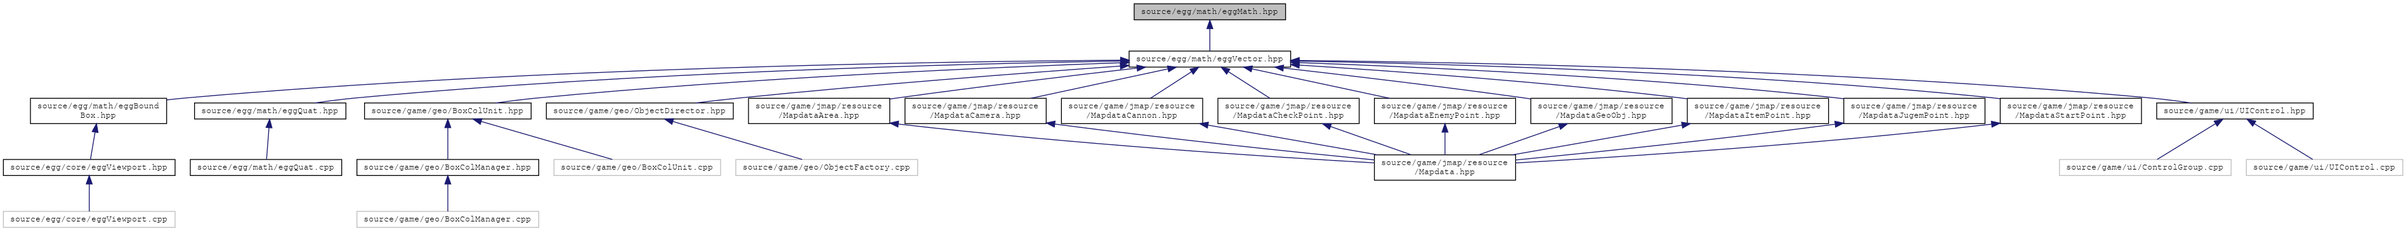
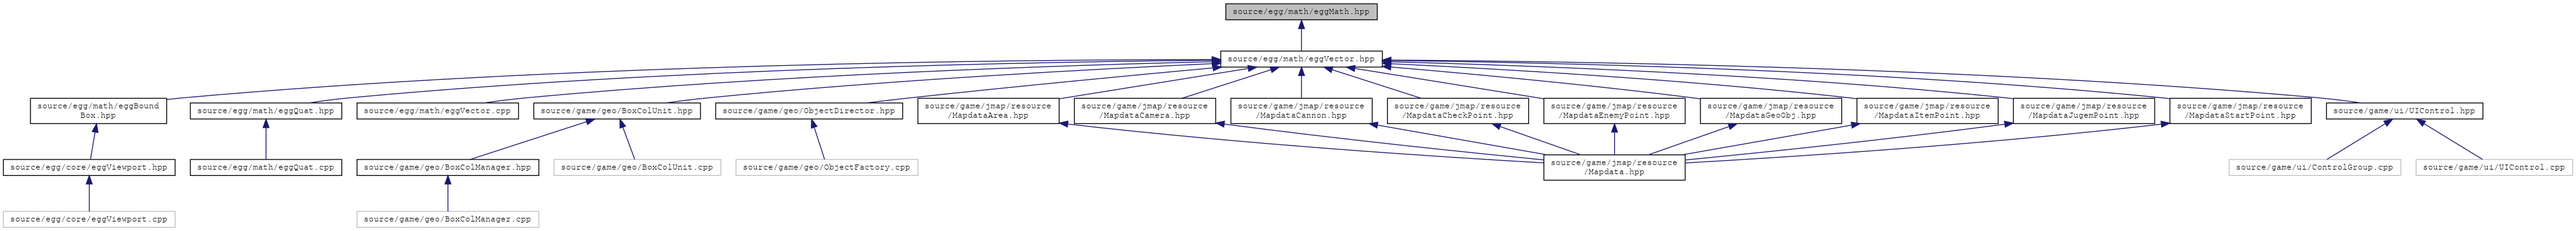
Deploying to gh-pages from @ riidefi/mkw@90979cafa67d8ee8e170cc550328c11c983de0ac 🚀

diff --git a/docs/html/egg_math_8hpp.html b/docs/html/egg_math_8hpp.html
@@ -110,22 +110,23 @@ $(document).ready(function(){initNavTree('egg_math_8hpp.html',''); initResizable
 <div id="dynsection-1-content" class="dyncontent" style="display:none;">
 <div class="center"><img src="egg_math_8hpp__dep__incl.png" border="0" usemap="#asource_2egg_2math_2egg_math_8hppdep" alt=""/></div>
 <map name="asource_2egg_2math_2egg_math_8hppdep" id="asource_2egg_2math_2egg_math_8hppdep">
-<area shape="rect" title="Provides a compile&#45;time generic interface for performing basic math operations on a certain type." alt="" coords="1788,5,2027,32"/>
-<area shape="rect" href="egg_vector_8hpp.html" title="TODO." alt="" coords="1780,80,2035,107"/>
+<area shape="rect" title="Provides a compile&#45;time generic interface for performing basic math operations on a certain type." alt="" coords="1932,5,2171,32"/>
+<area shape="rect" href="egg_vector_8hpp.html" title="TODO." alt="" coords="1924,80,2179,107"/>
 <area shape="rect" href="egg_bound_box_8hpp_source.html" title=" " alt="" coords="48,155,263,196"/>
-<area shape="rect" href="egg_quat_8hpp.html" title="TODO." alt="" coords="307,162,545,189"/>
-<area shape="rect" href="_box_col_unit_8hpp_source.html" title=" " alt="" coords="575,162,837,189"/>
-<area shape="rect" href="_object_director_8hpp.html" title="Manages the objects and related tables!" alt="" coords="861,162,1156,189"/>
-<area shape="rect" href="_mapdata_area_8hpp_source.html" title=" " alt="" coords="1180,155,1403,196"/>
-<area shape="rect" href="_mapdata_camera_8hpp_source.html" title=" " alt="" coords="1427,155,1649,196"/>
-<area shape="rect" href="_mapdata_cannon_8hpp_source.html" title=" " alt="" coords="1673,155,1896,196"/>
-<area shape="rect" href="_mapdata_check_point_8hpp_source.html" title=" " alt="" coords="1920,155,2143,196"/>
-<area shape="rect" href="_mapdata_enemy_point_8hpp_source.html" title=" " alt="" coords="2167,155,2389,196"/>
-<area shape="rect" href="_mapdata_geo_obj_8hpp_source.html" title=" " alt="" coords="2413,155,2636,196"/>
-<area shape="rect" href="_mapdata_item_point_8hpp_source.html" title=" " alt="" coords="2660,155,2883,196"/>
-<area shape="rect" href="_mapdata_jugem_point_8hpp_source.html" title=" " alt="" coords="2907,155,3129,196"/>
-<area shape="rect" href="_mapdata_start_point_8hpp_source.html" title=" " alt="" coords="3153,155,3376,196"/>
-<area shape="rect" href="_u_i_control_8hpp_source.html" title=" " alt="" coords="3400,162,3647,189"/>
+<area shape="rect" href="egg_quat_8hpp.html" title="TODO." alt="" coords="300,162,539,189"/>
+<area shape="rect" href="egg_vector_8cpp.html" title="TODO." alt="" coords="563,162,817,189"/>
+<area shape="rect" href="_box_col_unit_8hpp_source.html" title=" " alt="" coords="841,162,1104,189"/>
+<area shape="rect" href="_object_director_8hpp.html" title="Manages the objects and related tables!" alt="" coords="1128,162,1423,189"/>
+<area shape="rect" href="_mapdata_area_8hpp_source.html" title=" " alt="" coords="1447,155,1669,196"/>
+<area shape="rect" href="_mapdata_camera_8hpp_source.html" title=" " alt="" coords="1693,155,1916,196"/>
+<area shape="rect" href="_mapdata_cannon_8hpp_source.html" title=" " alt="" coords="1940,155,2163,196"/>
+<area shape="rect" href="_mapdata_check_point_8hpp_source.html" title=" " alt="" coords="2187,155,2409,196"/>
+<area shape="rect" href="_mapdata_enemy_point_8hpp_source.html" title=" " alt="" coords="2433,155,2656,196"/>
+<area shape="rect" href="_mapdata_geo_obj_8hpp_source.html" title=" " alt="" coords="2680,155,2903,196"/>
+<area shape="rect" href="_mapdata_item_point_8hpp_source.html" title=" " alt="" coords="2927,155,3149,196"/>
+<area shape="rect" href="_mapdata_jugem_point_8hpp_source.html" title=" " alt="" coords="3173,155,3396,196"/>
+<area shape="rect" href="_mapdata_start_point_8hpp_source.html" title=" " alt="" coords="3420,155,3643,196"/>
+<area shape="rect" href="_u_i_control_8hpp_source.html" title=" " alt="" coords="3667,162,3913,189"/>
 <area shape="rect" href="egg_viewport_8hpp.html" title="TODO." alt="" coords="5,251,276,278"/>
 <area shape="rect" title=" " alt="" coords="5,333,276,360"/>
 <area shape="rect" href="egg_quat_8cpp.html" title="TODO." alt="" coords="300,251,539,278"/>
@@ -133,9 +134,9 @@ $(document).ready(function(){initNavTree('egg_math_8hpp.html',''); initResizable
 <area shape="rect" title=" " alt="" coords="873,251,1136,278"/>
 <area shape="rect" title=" " alt="" coords="563,333,849,360"/>
 <area shape="rect" title=" " alt="" coords="1160,251,1447,278"/>
-<area shape="rect" href="_mapdata_8hpp_source.html" title=" " alt="" coords="2167,244,2389,285"/>
-<area shape="rect" title=" " alt="" coords="3247,251,3517,278"/>
-<area shape="rect" title=" " alt="" coords="3541,251,3788,278"/>
+<area shape="rect" href="_mapdata_8hpp_source.html" title=" " alt="" coords="2433,244,2656,285"/>
+<area shape="rect" title=" " alt="" coords="3513,251,3784,278"/>
+<area shape="rect" title=" " alt="" coords="3808,251,4055,278"/>
 </map>
 </div>
 </div>

diff --git a/docs/html/egg_vector_8hpp.html b/docs/html/egg_vector_8hpp.html
@@ -111,21 +111,22 @@ $(document).ready(function(){initNavTree('egg_vector_8hpp.html',''); initResizab
 <div id="dynsection-1-content" class="dyncontent" style="display:none;">
 <div class="center"><img src="egg_vector_8hpp__dep__incl.png" border="0" usemap="#asource_2egg_2math_2egg_vector_8hppdep" alt=""/></div>
 <map name="asource_2egg_2math_2egg_vector_8hppdep" id="asource_2egg_2math_2egg_vector_8hppdep">
-<area shape="rect" title="TODO." alt="" coords="1780,5,2035,32"/>
+<area shape="rect" title="TODO." alt="" coords="1924,5,2179,32"/>
 <area shape="rect" href="egg_bound_box_8hpp_source.html" title=" " alt="" coords="48,80,263,121"/>
-<area shape="rect" href="egg_quat_8hpp.html" title="TODO." alt="" coords="307,87,545,114"/>
-<area shape="rect" href="_box_col_unit_8hpp_source.html" title=" " alt="" coords="575,87,837,114"/>
-<area shape="rect" href="_object_director_8hpp.html" title="Manages the objects and related tables!" alt="" coords="861,87,1156,114"/>
-<area shape="rect" href="_mapdata_area_8hpp_source.html" title=" " alt="" coords="1180,80,1403,121"/>
-<area shape="rect" href="_mapdata_camera_8hpp_source.html" title=" " alt="" coords="1427,80,1649,121"/>
-<area shape="rect" href="_mapdata_cannon_8hpp_source.html" title=" " alt="" coords="1673,80,1896,121"/>
-<area shape="rect" href="_mapdata_check_point_8hpp_source.html" title=" " alt="" coords="1920,80,2143,121"/>
-<area shape="rect" href="_mapdata_enemy_point_8hpp_source.html" title=" " alt="" coords="2167,80,2389,121"/>
-<area shape="rect" href="_mapdata_geo_obj_8hpp_source.html" title=" " alt="" coords="2413,80,2636,121"/>
-<area shape="rect" href="_mapdata_item_point_8hpp_source.html" title=" " alt="" coords="2660,80,2883,121"/>
-<area shape="rect" href="_mapdata_jugem_point_8hpp_source.html" title=" " alt="" coords="2907,80,3129,121"/>
-<area shape="rect" href="_mapdata_start_point_8hpp_source.html" title=" " alt="" coords="3153,80,3376,121"/>
-<area shape="rect" href="_u_i_control_8hpp_source.html" title=" " alt="" coords="3400,87,3647,114"/>
+<area shape="rect" href="egg_quat_8hpp.html" title="TODO." alt="" coords="300,87,539,114"/>
+<area shape="rect" href="egg_vector_8cpp.html" title="TODO." alt="" coords="563,87,817,114"/>
+<area shape="rect" href="_box_col_unit_8hpp_source.html" title=" " alt="" coords="841,87,1104,114"/>
+<area shape="rect" href="_object_director_8hpp.html" title="Manages the objects and related tables!" alt="" coords="1128,87,1423,114"/>
+<area shape="rect" href="_mapdata_area_8hpp_source.html" title=" " alt="" coords="1447,80,1669,121"/>
+<area shape="rect" href="_mapdata_camera_8hpp_source.html" title=" " alt="" coords="1693,80,1916,121"/>
+<area shape="rect" href="_mapdata_cannon_8hpp_source.html" title=" " alt="" coords="1940,80,2163,121"/>
+<area shape="rect" href="_mapdata_check_point_8hpp_source.html" title=" " alt="" coords="2187,80,2409,121"/>
+<area shape="rect" href="_mapdata_enemy_point_8hpp_source.html" title=" " alt="" coords="2433,80,2656,121"/>
+<area shape="rect" href="_mapdata_geo_obj_8hpp_source.html" title=" " alt="" coords="2680,80,2903,121"/>
+<area shape="rect" href="_mapdata_item_point_8hpp_source.html" title=" " alt="" coords="2927,80,3149,121"/>
+<area shape="rect" href="_mapdata_jugem_point_8hpp_source.html" title=" " alt="" coords="3173,80,3396,121"/>
+<area shape="rect" href="_mapdata_start_point_8hpp_source.html" title=" " alt="" coords="3420,80,3643,121"/>
+<area shape="rect" href="_u_i_control_8hpp_source.html" title=" " alt="" coords="3667,87,3913,114"/>
 <area shape="rect" href="egg_viewport_8hpp.html" title="TODO." alt="" coords="5,177,276,203"/>
 <area shape="rect" title=" " alt="" coords="5,259,276,285"/>
 <area shape="rect" href="egg_quat_8cpp.html" title="TODO." alt="" coords="300,177,539,203"/>
@@ -133,9 +134,9 @@ $(document).ready(function(){initNavTree('egg_vector_8hpp.html',''); initResizab
 <area shape="rect" title=" " alt="" coords="873,177,1136,203"/>
 <area shape="rect" title=" " alt="" coords="563,259,849,285"/>
 <area shape="rect" title=" " alt="" coords="1160,177,1447,203"/>
-<area shape="rect" href="_mapdata_8hpp_source.html" title=" " alt="" coords="2167,169,2389,211"/>
-<area shape="rect" title=" " alt="" coords="3247,177,3517,203"/>
-<area shape="rect" title=" " alt="" coords="3541,177,3788,203"/>
+<area shape="rect" href="_mapdata_8hpp_source.html" title=" " alt="" coords="2433,169,2656,211"/>
+<area shape="rect" title=" " alt="" coords="3513,177,3784,203"/>
+<area shape="rect" title=" " alt="" coords="3808,177,4055,203"/>
 </map>
 </div>
 </div>

diff --git a/docs/html/ut___char_strm_reader_8hpp_source.html b/docs/html/ut___char_strm_reader_8hpp_source.html
@@ -5,7 +5,7 @@
 <meta http-equiv="X-UA-Compatible" content="IE=11"/>
 <meta name="generator" content="Doxygen 1.9.4"/>
 <meta name="viewport" content="width=device-width, initial-scale=1"/>
-<title>mkw: source/nw4r/ut/ut_charStrmReader.hpp Source File</title>
+<title>mkw: source/nw4r/ut/ut_CharStrmReader.hpp Source File</title>
 <link href="tabs.css" rel="stylesheet" type="text/css"/>
 <script type="text/javascript" src="jquery.js"></script>
 <script type="text/javascript" src="dynsections.js"></script>
@@ -64,7 +64,7 @@ $(function() {
 </div>
 <script type="text/javascript">
 /* @license magnet:?xt=urn:btih:d3d9a9a6595521f9666a5e94cc830dab83b65699&amp;dn=expat.txt MIT */
-$(document).ready(function(){initNavTree('ut__char_strm_reader_8hpp_source.html',''); initResizable(); });
+$(document).ready(function(){initNavTree('ut___char_strm_reader_8hpp_source.html',''); initResizable(); });
 /* @license-end */
 </script>
 <div id="doc-content">
@@ -83,7 +83,7 @@ $(document).ready(function(){initNavTree('ut__char_strm_reader_8hpp_source.html'
 </div>
 
 <div class="header">
-  <div class="headertitle"><div class="title">ut_charStrmReader.hpp</div></div>
+  <div class="headertitle"><div class="title">ut_CharStrmReader.hpp</div></div>
 </div><!--header-->
 <div class="contents">
 <div class="fragment"><div class="line"><a id="l00001" name="l00001"></a><span class="lineno">    1</span><span class="preprocessor">#pragma once</span></div>
@@ -129,13 +129,13 @@ $(document).ready(function(){initNavTree('ut__char_strm_reader_8hpp_source.html'
 <div class="line"><a id="l00041" name="l00041"></a><span class="lineno">   41</span> </div>
 <div class="line"><a id="l00042" name="l00042"></a><span class="lineno">   42</span>} <span class="comment">// namespace ut</span></div>
 <div class="line"><a id="l00043" name="l00043"></a><span class="lineno">   43</span>} <span class="comment">// namespace nw4r</span></div>
-<div class="ttc" id="astructnw4r_1_1ut_1_1_char_strm_reader_html"><div class="ttname"><a href="structnw4r_1_1ut_1_1_char_strm_reader.html">nw4r::ut::CharStrmReader</a></div><div class="ttdef"><b>Definition:</b> ut_charStrmReader.hpp:12</div></div>
+<div class="ttc" id="astructnw4r_1_1ut_1_1_char_strm_reader_html"><div class="ttname"><a href="structnw4r_1_1ut_1_1_char_strm_reader.html">nw4r::ut::CharStrmReader</a></div><div class="ttdef"><b>Definition:</b> ut_CharStrmReader.hpp:12</div></div>
 </div><!-- fragment --></div><!-- contents -->
 </div><!-- doc-content -->
 <!-- start footer part -->
 <div id="nav-path" class="navpath"><!-- id is needed for treeview function! -->
   <ul>
-    <li class="navelem"><a class="el" href="dir_b2f33c71d4aa5e7af42a1ca61ff5af1b.html">source</a></li><li class="navelem"><a class="el" href="dir_fa539d9f400cd8c961cb0a68e32183e6.html">nw4r</a></li><li class="navelem"><a class="el" href="dir_0004915ef6eb945b22d7e28ea246d3c1.html">ut</a></li><li class="navelem"><b>ut_charStrmReader.hpp</b></li>
+    <li class="navelem"><a class="el" href="dir_b2f33c71d4aa5e7af42a1ca61ff5af1b.html">source</a></li><li class="navelem"><a class="el" href="dir_fa539d9f400cd8c961cb0a68e32183e6.html">nw4r</a></li><li class="navelem"><a class="el" href="dir_0004915ef6eb945b22d7e28ea246d3c1.html">ut</a></li><li class="navelem"><b>ut_CharStrmReader.hpp</b></li>
     <li class="footer">Generated by <a href="https://www.doxygen.org/index.html"><img class="footer" src="doxygen.svg" width="104" height="31" alt="doxygen"/></a> 1.9.4 </li>
   </ul>
 </div>

diff --git a/docs/html/files.html b/docs/html/files.html
@@ -228,7 +228,7 @@ $(document).ready(function(){initNavTree('files.html',''); initResizable(); });
 <tr id="row_0_2_3_5_" class="even" style="display:none;"><td class="entry"><span style="width:64px;display:inline-block;">&#160;</span><a href="snd__sound_memory_allocatable_8hpp_source.html"><span class="icondoc"></span></a><b>snd_soundMemoryAllocatable.hpp</b></td><td class="desc"></td></tr>
 <tr id="row_0_2_4_" class="even"><td class="entry"><span style="width:32px;display:inline-block;">&#160;</span><span id="arr_0_2_4_" class="arrow" onclick="toggleFolder('0_2_4_')">&#9658;</span><span id="img_0_2_4_" class="iconfclosed" onclick="toggleFolder('0_2_4_')">&#160;</span><a class="el" href="dir_0004915ef6eb945b22d7e28ea246d3c1.html" target="_self">ut</a></td><td class="desc"></td></tr>
 <tr id="row_0_2_4_0_" style="display:none;"><td class="entry"><span style="width:64px;display:inline-block;">&#160;</span><a href="ut__binary_file_format_8hpp_source.html"><span class="icondoc"></span></a><b>ut_binaryFileFormat.hpp</b></td><td class="desc"></td></tr>
-<tr id="row_0_2_4_1_" style="display:none;"><td class="entry"><span style="width:64px;display:inline-block;">&#160;</span><a href="ut__char_strm_reader_8hpp_source.html"><span class="icondoc"></span></a><b>ut_charStrmReader.hpp</b></td><td class="desc"></td></tr>
+<tr id="row_0_2_4_1_" style="display:none;"><td class="entry"><span style="width:64px;display:inline-block;">&#160;</span><a href="ut___char_strm_reader_8hpp_source.html"><span class="icondoc"></span></a><b>ut_CharStrmReader.hpp</b></td><td class="desc"></td></tr>
 <tr id="row_0_2_4_2_" style="display:none;"><td class="entry"><span style="width:64px;display:inline-block;">&#160;</span><a href="ut__char_writer_8hpp_source.html"><span class="icondoc"></span></a><b>ut_charWriter.hpp</b></td><td class="desc"></td></tr>
 <tr id="row_0_2_4_3_" style="display:none;"><td class="entry"><span style="width:64px;display:inline-block;">&#160;</span><a href="ut__dvd_file_stream_8hpp_source.html"><span class="icondoc"></span></a><b>ut_dvdFileStream.hpp</b></td><td class="desc"></td></tr>
 <tr id="row_0_2_4_4_" style="display:none;"><td class="entry"><span style="width:64px;display:inline-block;">&#160;</span><a href="ut__dvd_locked_file_stream_8hpp_source.html"><span class="icondoc"></span></a><b>ut_dvdLockedFileStream.hpp</b></td><td class="desc"></td></tr>

diff --git a/docs/html/egg_vector_8cpp.html b/docs/html/egg_vector_8cpp.html
@@ -89,7 +89,7 @@ $(document).ready(function(){initNavTree('egg_vector_8cpp.html',''); initResizab
 
 <p>TODO.  
 <a href="#details">More...</a></p>
-<div class="textblock"><code>#include &lt;EGG/math/eggVector.hpp&gt;</code><br />
+<div class="textblock"><code>#include &lt;<a class="el" href="egg_vector_8hpp_source.html">egg/math/eggVector.hpp</a>&gt;</code><br />
 <code>#include &lt;float.h&gt;</code><br />
 </div><div class="textblock"><div id="dynsection-0" onclick="return toggleVisibility(this)" class="dynheader closed" style="cursor:pointer;">
   <img id="dynsection-0-trigger" src="closed.png" alt="+"/> Include dependency graph for eggVector.cpp:</div>
@@ -99,8 +99,10 @@ $(document).ready(function(){initNavTree('egg_vector_8cpp.html',''); initResizab
 <div class="center"><img src="egg_vector_8cpp__incl.png" border="0" usemap="#asource_2egg_2math_2egg_vector_8cpp" alt=""/></div>
 <map name="asource_2egg_2math_2egg_vector_8cpp" id="asource_2egg_2math_2egg_vector_8cpp">
 <area shape="rect" title="TODO." alt="" coords="59,5,313,32"/>
-<area shape="rect" title=" " alt="" coords="5,80,204,107"/>
+<area shape="rect" href="egg_vector_8hpp.html" title="TODO." alt="" coords="5,80,204,107"/>
 <area shape="rect" title=" " alt="" coords="228,80,307,107"/>
+<area shape="rect" href="egg_math_8hpp.html" title="Provides a compile&#45;time generic interface for performing basic math operations on a certain type." alt="" coords="13,155,196,181"/>
+<area shape="rect" title=" " alt="" coords="53,229,156,256"/>
 </map>
 </div>
 </div><a name="details" id="details"></a><h2 class="groupheader">Detailed Description</h2>

diff --git a/docs/html/ut__font_8hpp_source.html b/docs/html/ut__font_8hpp_source.html
@@ -144,7 +144,7 @@ $(document).ready(function(){initNavTree('ut__font_8hpp_source.html',''); initRe
 <div class="line"><a id="l00056" name="l00056"></a><span class="lineno">   56</span> </div>
 <div class="line"><a id="l00057" name="l00057"></a><span class="lineno">   57</span>} <span class="comment">// namespace ut</span></div>
 <div class="line"><a id="l00058" name="l00058"></a><span class="lineno">   58</span>} <span class="comment">// namespace nw4r</span></div>
-<div class="ttc" id="astructnw4r_1_1ut_1_1_char_strm_reader_html"><div class="ttname"><a href="structnw4r_1_1ut_1_1_char_strm_reader.html">nw4r::ut::CharStrmReader</a></div><div class="ttdef"><b>Definition:</b> ut_charStrmReader.hpp:12</div></div>
+<div class="ttc" id="astructnw4r_1_1ut_1_1_char_strm_reader_html"><div class="ttname"><a href="structnw4r_1_1ut_1_1_char_strm_reader.html">nw4r::ut::CharStrmReader</a></div><div class="ttdef"><b>Definition:</b> ut_CharStrmReader.hpp:12</div></div>
 <div class="ttc" id="astructnw4r_1_1ut_1_1_char_widths_html"><div class="ttname"><a href="structnw4r_1_1ut_1_1_char_widths.html">nw4r::ut::CharWidths</a></div><div class="ttdef"><b>Definition:</b> ut_font.hpp:13</div></div>
 <div class="ttc" id="astructnw4r_1_1ut_1_1_font_html"><div class="ttname"><a href="structnw4r_1_1ut_1_1_font.html">nw4r::ut::Font</a></div><div class="ttdef"><b>Definition:</b> ut_font.hpp:21</div></div>
 <div class="ttc" id="astructnw4r_1_1ut_1_1_glyph_html"><div class="ttname"><a href="structnw4r_1_1ut_1_1_glyph.html">nw4r::ut::Glyph</a></div><div class="ttdef"><b>Definition:</b> ut_glyph.hpp:12</div></div>

diff --git a/docs/html/dir_0004915ef6eb945b22d7e28ea246d3c1.html b/docs/html/dir_0004915ef6eb945b22d7e28ea246d3c1.html
@@ -102,7 +102,7 @@ $(document).ready(function(){initNavTree('dir_0004915ef6eb945b22d7e28ea246d3c1.h
 Files</h2></td></tr>
 <tr class="memitem:"><td class="memItemLeft" align="right" valign="top">file &#160;</td><td class="memItemRight" valign="bottom"><b>ut_binaryFileFormat.hpp</b> <a href="ut__binary_file_format_8hpp_source.html">[code]</a></td></tr>
 <tr class="separator:"><td class="memSeparator" colspan="2">&#160;</td></tr>
-<tr class="memitem:"><td class="memItemLeft" align="right" valign="top">file &#160;</td><td class="memItemRight" valign="bottom"><b>ut_charStrmReader.hpp</b> <a href="ut__char_strm_reader_8hpp_source.html">[code]</a></td></tr>
+<tr class="memitem:"><td class="memItemLeft" align="right" valign="top">file &#160;</td><td class="memItemRight" valign="bottom"><b>ut_CharStrmReader.hpp</b> <a href="ut___char_strm_reader_8hpp_source.html">[code]</a></td></tr>
 <tr class="separator:"><td class="memSeparator" colspan="2">&#160;</td></tr>
 <tr class="memitem:"><td class="memItemLeft" align="right" valign="top">file &#160;</td><td class="memItemRight" valign="bottom"><b>ut_charWriter.hpp</b> <a href="ut__char_writer_8hpp_source.html">[code]</a></td></tr>
 <tr class="separator:"><td class="memSeparator" colspan="2">&#160;</td></tr>

diff --git a/docs/html/egg_stream_8hpp.html b/docs/html/egg_stream_8hpp.html
@@ -106,6 +106,17 @@ $(document).ready(function(){initNavTree('egg_stream_8hpp.html',''); initResizab
 <area shape="rect" title=" " alt="" coords="149,80,236,107"/>
 </map>
 </div>
+</div><div class="textblock"><div id="dynsection-1" onclick="return toggleVisibility(this)" class="dynheader closed" style="cursor:pointer;">
+  <img id="dynsection-1-trigger" src="closed.png" alt="+"/> This graph shows which files directly or indirectly include this file:</div>
+<div id="dynsection-1-summary" class="dynsummary" style="display:block;">
+</div>
+<div id="dynsection-1-content" class="dyncontent" style="display:none;">
+<div class="center"><img src="egg_stream_8hpp__dep__incl.png" border="0" usemap="#asource_2egg_2util_2egg_stream_8hppdep" alt=""/></div>
+<map name="asource_2egg_2util_2egg_stream_8hppdep" id="asource_2egg_2util_2egg_stream_8hppdep">
+<area shape="rect" title="The Stream class." alt="" coords="5,5,260,32"/>
+<area shape="rect" title=" " alt="" coords="5,80,260,107"/>
+</map>
+</div>
 </div>
 <p><a href="egg_stream_8hpp_source.html">Go to the source code of this file.</a></p>
 <table class="memberdecls">

diff --git a/docs/html/navtreeindex2.js b/docs/html/navtreeindex2.js
@@ -74,11 +74,11 @@ var NAVTREEINDEX2 =
 "structnw4r_1_1ut_1_1_rom_font.html":[1,0,3,3,20],
 "structnw4r_1_1ut_1_1detail_1_1_res_font_base.html":[1,0,3,3,0,0],
 "structnw4r_1_1ut_1_1detail_1_1_runtime_type_info.html":[1,0,3,3,0,1],
+"ut___char_strm_reader_8hpp_source.html":[2,0,0,2,4,1],
 "ut___i_o_stream_8hpp_source.html":[2,0,0,2,4,8],
 "ut___link_list_8hpp_source.html":[2,0,0,2,4,9],
 "ut___r_t_t_i_8hpp_source.html":[2,0,0,2,4,15],
 "ut__binary_file_format_8hpp_source.html":[2,0,0,2,4,0],
-"ut__char_strm_reader_8hpp_source.html":[2,0,0,2,4,1],
 "ut__char_writer_8hpp_source.html":[2,0,0,2,4,2],
 "ut__dvd_file_stream_8hpp_source.html":[2,0,0,2,4,3],
 "ut__dvd_locked_file_stream_8hpp_source.html":[2,0,0,2,4,4],

diff --git a/docs/html/structnw4r_1_1ut_1_1_char_strm_reader.html b/docs/html/structnw4r_1_1ut_1_1_char_strm_reader.html
@@ -148,7 +148,7 @@ u16(CharStrmReader::*&#160;</td><td class="memItemRight" valign="bottom"><b>mFun
 <tr class="separator:a9657945511666454f6a028900a8bd6bf"><td class="memSeparator" colspan="2">&#160;</td></tr>
 </table>
 <hr/>The documentation for this struct was generated from the following files:<ul>
-<li>source/nw4r/ut/<a class="el" href="ut__char_strm_reader_8hpp_source.html">ut_charStrmReader.hpp</a></li>
+<li>source/nw4r/ut/<a class="el" href="ut___char_strm_reader_8hpp_source.html">ut_CharStrmReader.hpp</a></li>
 <li>source/nw4r/ut/ut_CharStrmReader.cpp</li>
 </ul>
 </div><!-- contents -->

diff --git a/docs/html/dir_0004915ef6eb945b22d7e28ea246d3c1.js b/docs/html/dir_0004915ef6eb945b22d7e28ea246d3c1.js
@@ -1,7 +1,7 @@
 var dir_0004915ef6eb945b22d7e28ea246d3c1 =
 [
     [ "ut_binaryFileFormat.hpp", "ut__binary_file_format_8hpp_source.html", null ],
-    [ "ut_charStrmReader.hpp", "ut__char_strm_reader_8hpp_source.html", null ],
+    [ "ut_CharStrmReader.hpp", "ut___char_strm_reader_8hpp_source.html", null ],
     [ "ut_charWriter.hpp", "ut__char_writer_8hpp_source.html", null ],
     [ "ut_dvdFileStream.hpp", "ut__dvd_file_stream_8hpp_source.html", null ],
     [ "ut_dvdLockedFileStream.hpp", "ut__dvd_locked_file_stream_8hpp_source.html", null ],
